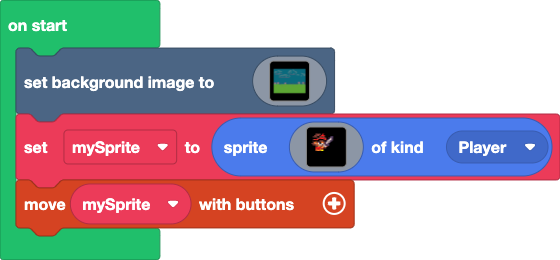
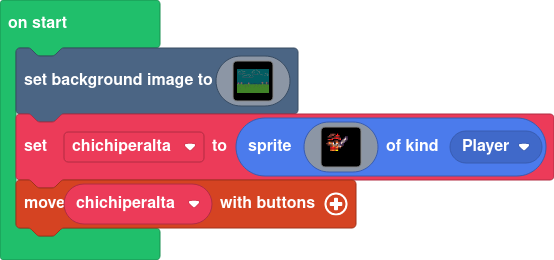
cambie el nombre de la variable

diff --git a/main.ts b/main.ts
@@ -120,7 +120,7 @@ scene.setBackgroundImage(img`
     7777777777777777777777777777777777777777777777777777777777777777777777777777777777777777777777777777777777777777777777777777777777777777777777777777777777777777
     7777777777777777777777777777777777777777777777777777777777777777777777777777777777777777777777777777777777777777777777777777777777777777777777777777777777777777
     `)
-let mySprite = sprites.create(img`
+let chichiperalta = sprites.create(img`
     ........................
     ....ffffff..............
     ..ffeeeef2f.............
@@ -146,4 +146,4 @@ let mySprite = sprites.create(img`
     ........................
     ........................
     `, SpriteKind.Player)
-controller.moveSprite(mySprite)
+controller.moveSprite(chichiperalta)
